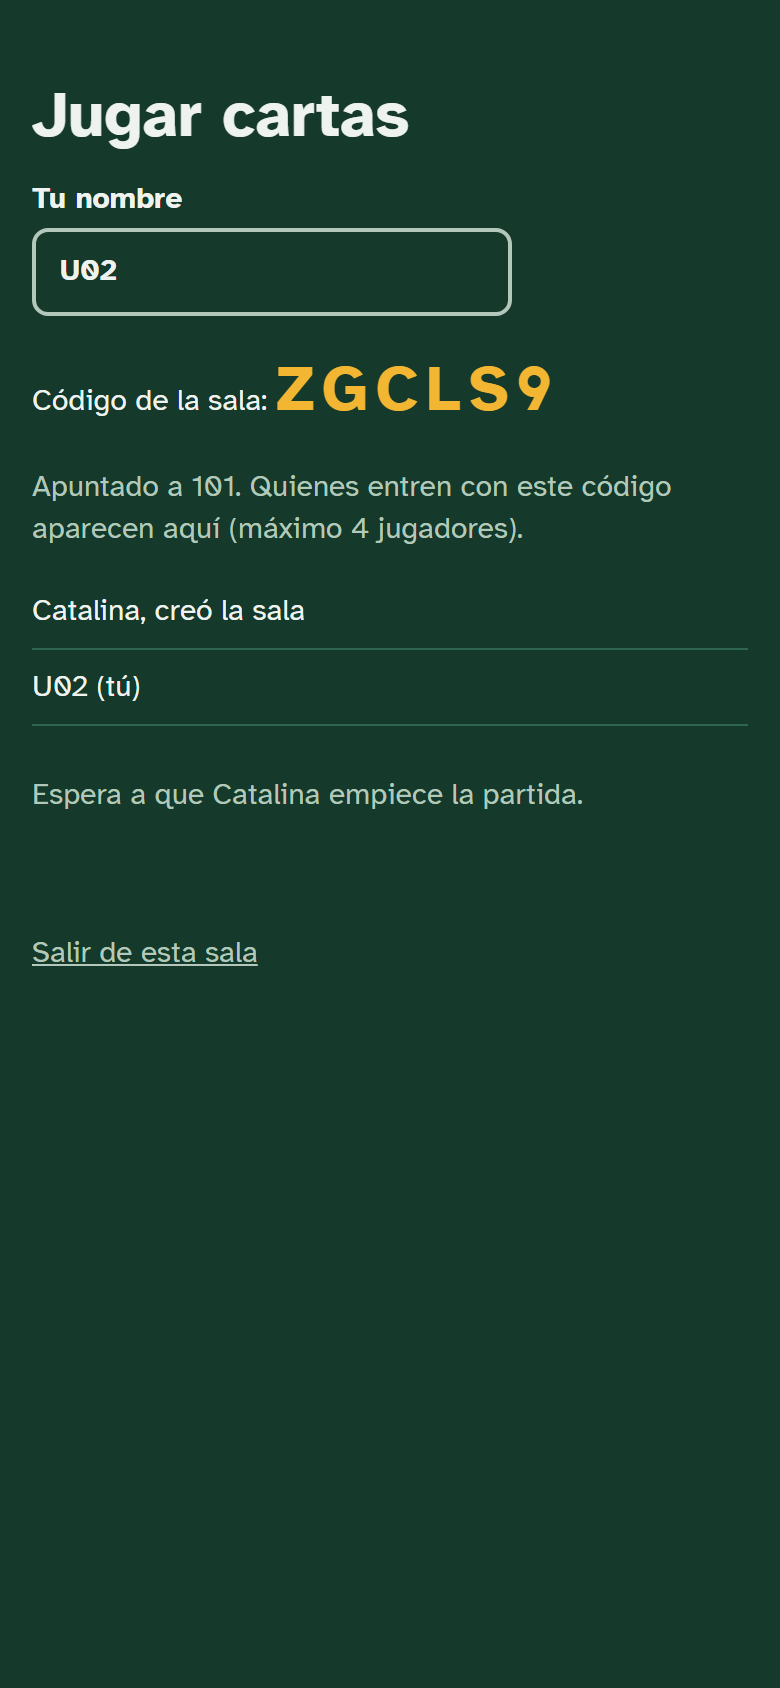
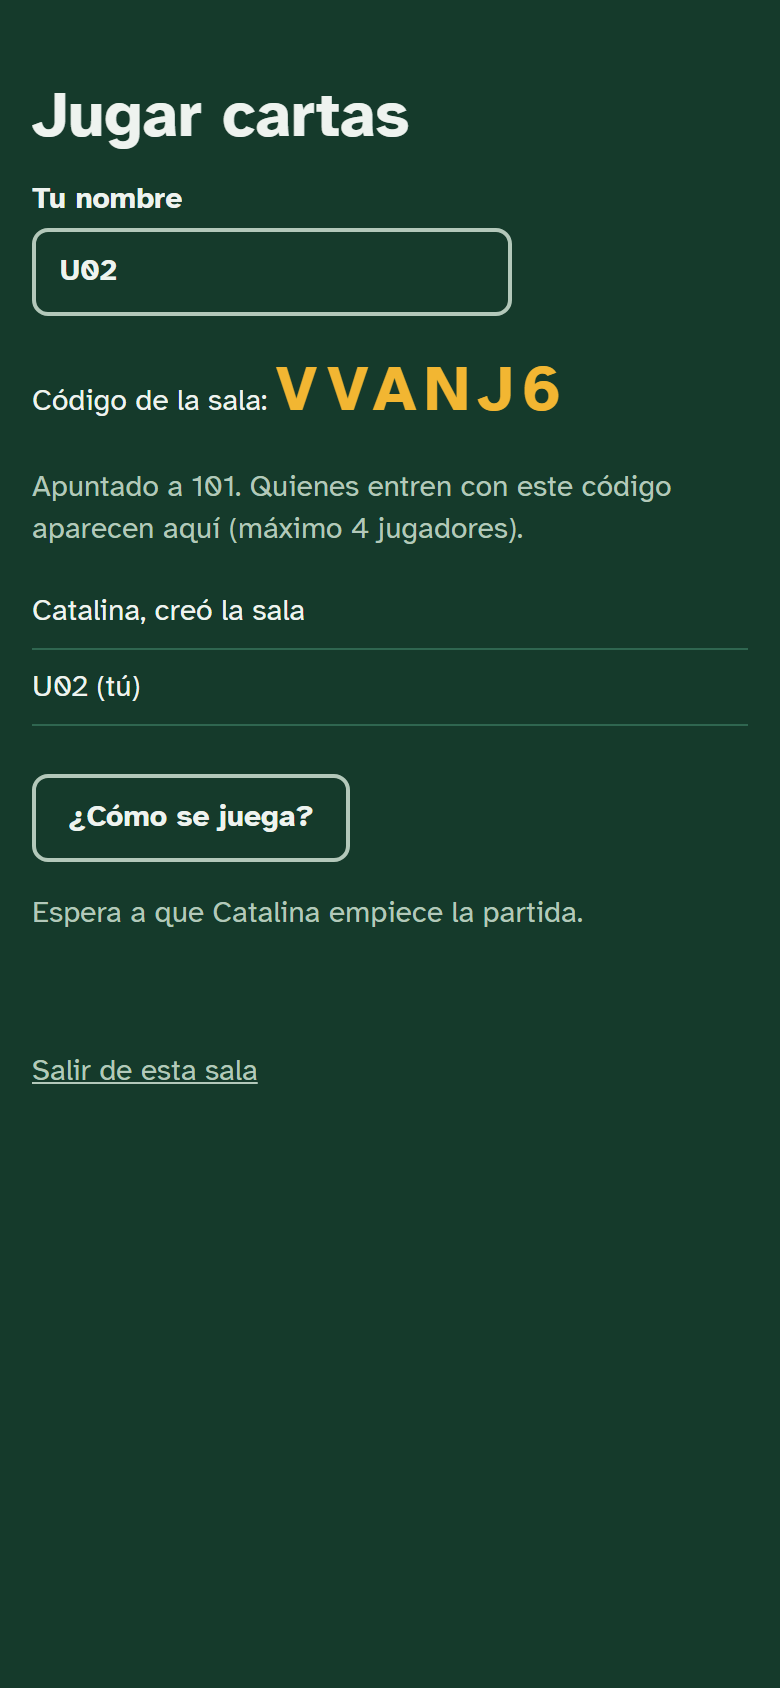
Mejoras de la validación con usuarios: reglas por plug-in, aviso de cierre, mano en dos filas, pistas de mazo y pozo, actividad del rival y aviso de turno

Changed region(s): [[0.0308, 0.4621, 0.7385, 0.5853], [0.3385, 0.2156, 0.7385, 0.2464], [0.0308, 0.6161, 0.3385, 0.6469]]

diff --git a/src/juegocartas/presentacion/static/index.html b/src/juegocartas/presentacion/static/index.html
@@ -193,6 +193,15 @@ dialog .salir { display: block; margin: var(--e-3) auto 0; color: #4d5c53; }
 .sala .espera { color: var(--texto-tenue); }
 .salir { margin-top: var(--e-6); background: none; border: 0; color: var(--texto-tenue); text-decoration: underline; min-height: 44px; padding: 0; }
 .sin-red { color: var(--combo-c); font-weight: 700; }
+/* Mejora 4: con la mano llena en pantallas angostas, dos filas sin solape (objetivos de 56 px, WCAG 2.5.5) */
+.mano.dos-filas { flex-wrap: wrap; gap: var(--e-4) 3px; }
+.mano.dos-filas .carta { margin-left: 0; }
+.pista-cerrar { font-size: var(--t-xs); color: var(--texto-tenue); margin: var(--e-2) 0 0; min-height: 1.4em; }
+.pista-cerrar.lista { color: var(--accion); font-weight: 700; }
+#cerrar.listo { background: var(--accion); border-color: var(--accion); color: var(--accion-texto); }
+.btn-ayuda { min-height: 44px; background: none; border: 0; color: var(--texto); text-decoration: underline; padding: 0 var(--e-1); font-size: var(--t-xs); }
+dialog ol { padding-left: 1.2em; margin: 0 0 var(--e-4); }
+dialog li { margin-bottom: var(--e-2); }
 .conexion .btn { margin-left: var(--e-2); }
 .conexion { position: fixed; left: 0; right: 0; bottom: 0; padding: var(--e-2) max(16px, env(safe-area-inset-left, 0px)) calc(var(--e-2) + env(safe-area-inset-bottom, 0px)); background: var(--error-fondo); color: var(--error-texto); font-weight: 700; text-align: center; }
 
@@ -228,6 +237,7 @@ dialog .salir { display: block; margin: var(--e-3) auto 0; color: #4d5c53; }
       <p>Código de la sala: <span class="codigo" id="codigo-sala"></span></p>
       <p class="guia" style="margin:0" id="guia-sala"></p>
       <ul class="jugadores-sala" id="lista-sala"></ul>
+      <button class="btn" id="ayuda-sala">¿Cómo se juega?</button>
       <button id="empezar" class="btn btn-principal" hidden>Empezar partida</button>
       <p class="espera" id="espera-sala"></p>
       <button class="salir" id="salir-sala">Salir de esta sala</button>
@@ -238,7 +248,7 @@ dialog .salir { display: block; margin: var(--e-3) auto 0; color: #4d5c53; }
   <section id="vista-juego" hidden>
     <div class="cabecera">
       <h1 id="titulo-modo"></h1>
-      <span class="meta">Sala <span id="meta-sala"></span>, <span id="ronda"></span></span>
+      <span class="meta">Sala <span id="meta-sala"></span>, <span id="ronda"></span> <button class="btn-ayuda" id="ayuda-juego">¿Cómo se juega?</button></span>
     </div>
 
     <div class="rivales" id="rivales"></div>
@@ -279,7 +289,15 @@ dialog .salir { display: block; margin: var(--e-3) auto 0; color: #4d5c53; }
       <button class="btn btn-principal" id="descartar" disabled>Descartar</button>
       <button class="btn" id="cerrar" disabled>Cerrar ronda</button>
     </div>
+    <p class="pista-cerrar" id="pista-cerrar" aria-live="polite"></p>
   </section>
+
+  <!-- ============ REGLAS (mejora 1): el texto lo trae el plug-in de la modalidad ============ -->
+  <dialog id="reglas">
+    <h2 id="reglas-titulo"></h2>
+    <ol id="reglas-lista"></ol>
+    <button class="btn btn-principal" id="reglas-ok">Entendido</button>
+  </dialog>
 
   <!-- ============ RESUMEN DE RONDA (H3 y H4) ============ -->
   <dialog id="resumen">
@@ -430,7 +448,7 @@ function pintarJuego() {
     const turno = !fin && P.en_turno === j.nombre;
     return `<div class="rival ${turno ? "en-turno" : ""} ${j.fuera ? "eliminado" : ""}">
       <div class="nombre">${esc(j.nombre)}</div>
-      <div class="estado">${j.fuera ? `Llegó a ${meta()}, fuera` : !conectado(j) ? '<span class="sin-red">Sin conexión</span>' : (turno ? "Jugando, " : "") + j.cartas + " cartas"}</div>
+      <div class="estado">${j.fuera ? `Llegó a ${meta()}, fuera` : !conectado(j) ? '<span class="sin-red">Sin conexión</span>' : (turno ? (P.fase === "ESPERANDO_ROBO" ? "Tomando carta… " : "Eligiendo descarte… ") : "") + j.cartas + " cartas"}</div>
       ${ap ? marcador(j.puntos) : ""}
     </div>`;
   }).join("");
@@ -439,8 +457,8 @@ function pintarJuego() {
   $("pozo-carta").innerHTML = P.pozo ? htmlCarta(P.pozo) : '<span class="hueco"></span>';
   $("mazo").classList.toggle("activa", robo);
   $("pozo").classList.toggle("activa", robo && !!P.pozo);
-  $("pista-mazo").textContent = robo ? "Robar oculta" : "";
-  $("pista-pozo").textContent = robo && P.pozo ? "Tomar " + etiqueta(P.pozo) : "";
+  $("pista-mazo").textContent = robo ? "Robar oculta" : "boca abajo";
+  $("pista-pozo").textContent = robo && P.pozo ? "Tomar " + etiqueta(P.pozo) : "boca arriba";
   $("mazo").setAttribute("aria-label", robo ? "Robar del mazo, carta oculta" : "Mazo");
   $("pozo").setAttribute("aria-label", robo && P.pozo ? "Tomar del pozo el " + nombreLargo(P.pozo) : "Pozo de descarte");
   const ultima = P.bitacora.at(-1);
@@ -476,6 +494,7 @@ function pintarJuego() {
   const cont = $("mano");
   const ancho = cont.clientWidth || 358, an = parseFloat(getComputedStyle(document.documentElement).getPropertyValue("--carta-an"));
   const paso = Math.min(an + 6, (ancho - an) / Math.max(1, mano.length - 1));
+  cont.classList.toggle("dos-filas", paso < 44);  // si la parte visible de cada carta queda < 44 px
   cont.style.setProperty("--paso", (paso - an) + "px");
   cont.innerHTML = mano.map((c, i) => `<button class="carta ${esRoja(c) ? "roja" : ""} ${sel === i ? "sel" : ""} ${P.nueva === c && miTurno ? "nueva" : ""}" data-i="${i}" aria-pressed="${sel === i}" aria-label="${nombreLargo(c)}">
       ${c === "JK" ? '<span class="indice">★</span>' : `<span class="indice">${rango(c)}<small>${PINTAS[pinta(c)]}</small></span><span class="centro">${PINTAS[pinta(c)]}</span>`}
@@ -488,10 +507,30 @@ function pintarJuego() {
   d.disabled = !(descarte && sel !== null);
   d.textContent = descarte && sel !== null ? "Descartar " + etiqueta(mano[sel]) : "Descartar";
   $("cerrar").disabled = !descarte;
+  $("cerrar").classList.toggle("listo", descarte && A.puede_cerrar);
+  $("cerrar").textContent = descarte && A.puede_cerrar ? "Cerrar ronda ✓" : "Cerrar ronda";
+  const pc = $("pista-cerrar");
+  pc.classList.toggle("lista", descarte && A.puede_cerrar);
+  pc.textContent = !descarte ? "" : A.puede_cerrar ? "¡Ya puedes cerrar la ronda!" : A.motivo_cierre ? "Aún no puedes cerrar: " + A.motivo_cierre : "";
+  avisarTurno(miTurno && !fin);
   mostrarResumen();
 }
 
 const meta = () => V.config.umbral_eliminacion || 101;
+
+/* Mejora 6: si el jugador mira otra pestaña o tiene el celular en la mesa, el turno se anuncia en el título y vibrando. */
+let avisado = false;
+function avisarTurno(toca) {
+  document.title = toca ? "¡Te toca! · Mesa de cartas" : "Mesa de cartas";
+  if (toca && !avisado && navigator.vibrate) { try { navigator.vibrate(200); } catch (e) {} }
+  avisado = toca;
+}
+
+function mostrarReglas() {
+  $("reglas-titulo").textContent = "Cómo se juega: " + TITULO[V.variante];
+  $("reglas-lista").innerHTML = (V.reglas || []).map(t => `<li>${esc(t)}</li>`).join("");
+  $("reglas").showModal();
+}
 const conectado = j => !V.conectados || V.conectados.includes(j.nombre);
 function barra(puntos) {
   const cerca = puntos >= meta() * 0.85 ? "cerca" : "";
@@ -519,6 +558,7 @@ function mostrarResumen() {
     $("res-texto").textContent = `${quien} con ${combos}.` +
       (R.bono ? ` ${yoCerre ? "Ganas" : "Gana"} un bono de ${R.bono} puntos.` :
         R.quedan.length ? ` ${yoCerre ? "Te quedaron" : "Le quedaron"} ${R.puntos_quedan} puntos sueltos, que no se ${yoCerre ? "te" : "le"} suman.` : "") +
+      (R.descarte ? ` Al cerrar se descartó sola ${yoCerre ? "tu" : "su"} carta suelta más alta, ${etiqueta(R.descarte)}.` : "") +
       (fuera.length ? ` ${mayus(enumerar(fuera))} ${fuera.length > 1 ? "llegaron" : (fuera[0] === "tú" ? "llegaste" : "llegó")} a ${meta()} y ${fuera.length > 1 ? "salen" : (fuera[0] === "tú" ? "sales" : "sale")} de la partida.` : "");
     $("res-tabla").innerHTML = `<table><thead><tr><th>Jugador</th><th class="num">Esta ronda</th><th class="num">Total</th><th style="width:35%">Hacia ${meta()}</th></tr></thead><tbody>` +
       R.filas.map(f => `<tr><td>${esc(f.jugador === V.yo ? "Tú" : f.jugador)}${f.fuera ? ' <span class="eliminado-tag">fuera</span>' : ""}</td>
@@ -585,6 +625,9 @@ $("descartar").onclick = () => {
 };
 $("seguir-aqui").onclick = () => { reemplazada = false; $("otra-pestana").hidden = true; conectar(); };
 $("cerrar").onclick = () => { sel = null; ocultarError(); enviar({ accion: "cerrar" }); };
+$("ayuda-juego").onclick = mostrarReglas;
+$("ayuda-sala").onclick = mostrarReglas;
+$("reglas-ok").onclick = () => $("reglas").close();
 $("res-salir").onclick = () => { $("resumen").close(); $("salir-sala").click(); };
 $("mover-izq").onclick = () => mover(-1);
 $("mover-der").onclick = () => mover(1);

diff --git a/tests/mvp/test_mejoras_validacion.py b/tests/mvp/test_mejoras_validacion.py
@@ -1,0 +1,46 @@
+"""Mejoras 1 y 2 de la validación con usuarios (sección 3.4 del informe).
+
+1. Cada modalidad trae su ayuda: el texto lo declara el plug-in y el núcleo solo lo reenvía.
+2. Con la carta del turno en la mano, la vista dice si ya se puede cerrar y, si no, el motivo de la regla.
+"""
+import pytest
+
+from juegocartas.nucleo.contrato.codigos import desde_codigo
+from armado import gateway, juego  # noqa: F401  (fixtures)
+
+
+@pytest.fixture
+def sala(juego):
+    sala = juego.crear_sala("Nico", "CLASICA_433")
+    juego.unirse(sala.codigo, "Caro")
+    juego.empezar(sala.codigo, "Nico")
+    return sala.codigo
+
+
+def con_mano(juego, sala, jugador, texto):
+    juego.robar(sala, jugador, "MAZO")
+    juego._partidas.obtener(sala).mesa.manos[jugador] = [desde_codigo(c) for c in texto.split()]
+
+
+@pytest.mark.parametrize("variante, palabra", [("CLASICA_433", "cuarta"), ("APUNTADO_101", "101")])
+def test_la_vista_trae_las_reglas_del_plugin(juego, variante, palabra):
+    sala = juego.crear_sala("Ana", variante)
+    reglas = juego.vista(sala.codigo, "Ana")["reglas"]
+    assert len(reglas) >= 3 and any(palabra in r for r in reglas)
+
+
+def test_avisa_que_ya_puede_cerrar(juego, sala):
+    con_mano(juego, sala, "Nico", "7H 7S 7D 7C 3C 4C 5C KS KH KD 2D")
+    analisis = juego.vista(sala, "Nico")["partida"]["analisis"]
+    assert analisis["puede_cerrar"] is True and analisis["motivo_cierre"] is None
+
+
+def test_avisa_que_falta_antes_de_intentar(juego, sala):
+    con_mano(juego, sala, "Nico", "7H 7S 7D 3C 4C 5C KS KH 9D 2D QC")
+    analisis = juego.vista(sala, "Nico")["partida"]["analisis"]
+    assert analisis["puede_cerrar"] is False and analisis["motivo_cierre"].startswith("Te falta 1 cuarta")
+
+
+def test_sin_la_carta_del_turno_no_se_evalua(juego, sala):
+    analisis = juego.vista(sala, "Caro")["partida"]["analisis"]
+    assert analisis["puede_cerrar"] is False and analisis["motivo_cierre"] is None

diff --git a/src/juegocartas/nucleo/partida/servicio.py b/src/juegocartas/nucleo/partida/servicio.py
@@ -191,6 +191,7 @@ class GameService:
             "anfitrion": sala.anfitrion, "capacidad": sala.capacidad, "yo": jugador,
             "jugadores": [{"nombre": j, "cartas": len(manos.get(j, ())), "puntos": saldos.get(j, 0),
                            "fuera": j in fuera} for j in sala.jugadores],
+            "reglas": list(getattr(self._variantes.resolver(sala.variante), "reglas", ())),
             "partida": None,
         }
         if partida:
@@ -229,10 +230,15 @@ class GameService:
         combos, sueltas = cartas_sueltas(mano, tabla.puntos)
         # Con la carta del turno en la mano, al cerrar sale una: se cuenta sin la suelta más alta.
         descarte = max(sueltas, key=tabla.puntos) if sueltas and len(mano) > CARTAS_POR_MANO else None
+        # Mejora 2 de la validación: avisar si ya se puede cerrar, con el motivo que da la regla del plug-in.
+        cierre = (self._variantes.resolver(sala.variante).regla_cierre(sala.config).evaluar(mano)
+                  if len(mano) > CARTAS_POR_MANO else None)
         return {
             "combos": [{"tipo": c.tipo.value, "cartas": [codigo(x) for x in c.cartas]} for c in combos],
             "puntos_sueltos": sum(tabla.puntos(c) for c in sueltas) - (tabla.puntos(descarte) if descarte else 0),
             "sin_contar": codigo(descarte) if descarte else None,
+            "puede_cerrar": bool(cierre and cierre.valida),
+            "motivo_cierre": cierre.motivo_rechazo if cierre and not cierre.valida else None,
         }
 
     def _partida(self, codigo_sala: str) -> Partida:

diff --git a/src/juegocartas/plugins/apuntado/plugin.py b/src/juegocartas/plugins/apuntado/plugin.py
@@ -96,6 +96,15 @@ class UmbralEliminacion:
 class ReglaApuntadoPlugin:
     codigo = "APUNTADO_101"
     version_contrato = VERSION_CONTRATO
+    # Ayuda para el jugador (mejora 1 de la validación): la trae el plug-in, no el núcleo ni la pantalla.
+    reglas = (
+        "Cada jugador recibe 10 cartas. En tu turno tomas 1 carta del mazo (boca abajo) o del pozo (boca arriba) y descartas 1.",
+        "Terna: 3 cartas del mismo número, o 3 seguidas de la misma pinta (escalera).",
+        "Cierras con 3 ternas o escaleras y menos de 5 puntos sueltos. Al cerrar, tu carta suelta más alta se descarta sola.",
+        "Puntos: As, J, Q y K valen 10; del 2 al 10, su número; el comodín (★), 0.",
+        "A los demás se les suman sus puntos sueltos. Quien llega a 101 queda fuera; gana el último que quede.",
+        "Bonos para quien cierra: 10 puntos menos si cierra con todas las cartas, 25 si además son de una sola pinta.",
+    )
 
     def esquema_configuracion(self) -> Mapping[str, Any]:
         return {

diff --git a/src/juegocartas/plugins/clasica/plugin.py b/src/juegocartas/plugins/clasica/plugin.py
@@ -58,6 +58,13 @@ class FinEnUnaRonda:
 class ReglaClasicaPlugin:
     codigo = "CLASICA_433"
     version_contrato = VERSION_CONTRATO
+    # Ayuda para el jugador (mejora 1 de la validación): la trae el plug-in, no el núcleo ni la pantalla.
+    reglas = (
+        "Cada jugador recibe 10 cartas. En tu turno tomas 1 carta del mazo (boca abajo) o del pozo (boca arriba) y descartas 1.",
+        "Terna: 3 cartas del mismo número, o 3 seguidas de la misma pinta (escalera). Cuarta: lo mismo con 4 cartas.",
+        "Cierras cuando tienes 1 cuarta + 2 ternas y te sobra 1 carta para descartar. Quien cierra primero gana la ronda.",
+        "El comodín (★) reemplaza cualquier carta.",
+    )
 
     def esquema_configuracion(self) -> Mapping[str, Any]:
         return {
